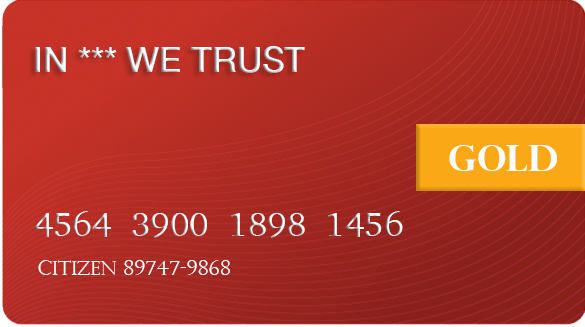
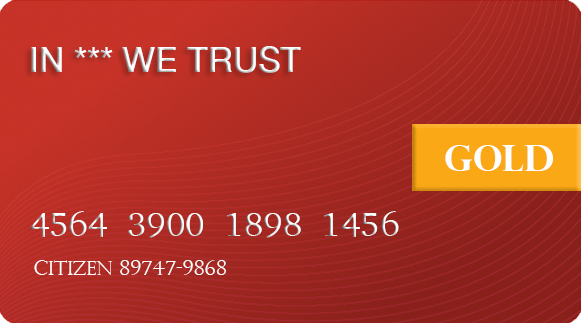
Repositioning divs/animations

diff --git a/styles.css b/styles.css
@@ -16,6 +16,11 @@ body {
 	overflow-x:hidden;
   }
 
+/*#laserpointer {
+	cursor: url("images/laser.png"), auto;
+
+}*/
+
 #container {
 	width: 100vw;
 	height:96vh;
@@ -30,6 +35,7 @@ body {
 }
 
 #english {
+	background-image: url("images/Persiantype.png");
 	font-size: 16pt;
 	position: absolute;
 	margin-left: 50px;
@@ -42,17 +48,7 @@ body {
 
 }
 
-
-.is-hidden {
-	display: none;
-}
-
-.is-visible {
-	display: block;
-}
-
-
-.farsi {
+#farsi {
 	background-image: url("images/nowruz-title2.png");
 	position: absolute;
 	padding-top: 10px;
@@ -63,6 +59,15 @@ body {
 	width: 200px;
 	height:500px;
 
+}
+
+.is-visible {
+	display: block;
+}
+
+
+.is-hidden {
+	display: none;
 }
 
 #haft-seen {
@@ -82,75 +87,80 @@ body {
 	width:150px;
 	margin-top: 10px;
 	padding:35px;
-/*	background-color: white;
-*/
+	background-color: white;
+
 }
+
 
 .flash-hafiz {
-	-webkit-animation-name: flashHafiz;
-	-webkit-animation-duration:4s;
-	-webkit-animation-iteration-count: 2;
-	-webkit-animation-timing-function: ease;
-	-webkit-animation-fill-mode: forwards;
+	background-image: url("images/binarycode.png");
+	background-size:100%;
+	animation-name: flash-hafiz;
+	animation-duration:1s;
+	animation-iteration-count: infinite;
+	animation-timing-function: ease;
+	animation-fill-mode: forwards;
 }
 
-@-webkit-keyframes flash-hafiz {
+@keyframes flash-hafiz {
 	0% {
-    background-image: 
     transform: scale(1);
-  }
-  	60% {
-    background-image: url("images/hafiz.png");
-    transform: scale(2);
-  }
+/*    transform: translate(0px,300px);
+*/  }
   	100% {
-    background-image: url("images/binaryCode.png");
-    transform: scale(3);
-  }
-
-/*	-webkit-background-image: url("images/binaryCode.png");
-	-webkit-transform: scale(2);
-	}
-	to {
-	-webkit-background-image: url("images/hafiz.png");
-	-webkit-transform: scale(3);
-	}*/
+    transform: scale(2.5);
+/*    transform: translate (0px,500px);
+*/  }
 }
 
-/*@keyframes flashHafiz {
-
-}*/
 
 #sehkeh {
-	animation: creditcard 3s;
+	background-size:100%;
+	background-image: url("images/creditcard.png");
+/*	display: none;
+*/	opacity:0;
+	/*or you can do cover for background-size*/
+	width:300px;
+	height:135px;
+	animation: creditcard 5s linear;
+	/*animation-delay: 1s;*/
+	animation-iteration-count: 1;
+/*	animation-direction: alternate;*/	
 }
 
 #sehkeh:hover {
-	animation-delay: 1s;
-
+	opacity:1;
+	
 }
 
-@keyframes creditcard {
+@keyframes creditcard{
  	0% {
-    	background-image: url("images/creditcard.png");
-    	display: block;
-  	}
-  	25% {
-  	  	background-image: url("images/creditcard.png");
-    	transform: rotate(90deg);
-		  transform: scale(7);  
-	}
-	50% {
-    	background-image: url("images/creditcard.png");
-   		transform: rotate(180deg); 
-	}
-	75% {
-    	background-image: url("images/creditcard.png");
-   		transform: rotate(270deg);
-	}
+    	opacity:1;
+    	transform: rotate(0deg);
+  	}	
   	100% {
-    	background-image: url("images/creditcard.png");
     	transform: rotate(360deg);
-		}
+	}
 }
+
+#sabzeh {
+	background-image: url("images/grass.png");
+	opacity: 0;
+	width:1000px;
+	height:1000px;
+	overflow: hidden;
+}
+
+/*#sabzeh:hover{
+	opacity: 1;
+}*/
+
+
+#header{
+	opacity:0;
+}
+#header:hover{
+	opacity:1;
+}
+
 

diff --git a/index.html b/index.html
@@ -6,28 +6,30 @@
 	<link rel="stylesheet" type="text/css" href="styles.css">
 </head>
 <body>
+<!-- 	<div id="laserpointer"></div> -->
 	<div id="container">
 		<header id="header" class="header">
 			<div id="english">
-				<p> Persian New Year<br>2316<br><br>
+			<!-- 	<p> Persian New Year<br>2316<br><br>
 				Nowruz is the traditional Iranian festival of spring which starts at the exact moment of the vernal equinox, commencing the start of the spring. It is considered as the start of the New Year among Iranians. The name comes from Avestan meaning "new day/daylight".
-				<br><br>Haft-Seen is a tabletop arrangement of seven symbolic items traditionally displayed at Nowruz. The haft-seen table includes seven items all starting with the letter Seen in the Persian alphabet.</p>
+				<br><br>Haft-Seen is a tabletop arrangement of seven symbolic items traditionally displayed at Nowruz. The haft-seen table includes seven items all starting with the letter Seen in the Persian alphabet.</p> -->
 			</div>
-			<div class="farsi"></div>
+			<div id="farsi"></div>
 		</header>
 	</div>
 
 <!-- haftseen -->
 		<section id="haft-seen">
-			<article class="haft-seen-item" id="sabzeh"></article>	
-			<article class="haft-seen-item" id="seeb"></article>	
+			<article class="haft-seen-item" id="seeb"></article>
+			<article class="haft-seen-item" id="kehtab"></article>	
+			<article class="haft-seen-item" id="sehkeh"></article>	
 			<article class="haft-seen-item" id="sumac"></article>	
 			<article class="haft-seen-item" id="sombol"></article>	
 			<article class="haft-seen-item" id="seer"></article>	
-			<article class="haft-seen-item" id="sehkeh"></article>	
+			<article class="haft-seen-item" id="sabzeh"></article>	
 			<article class="haft-seen-item" id="vinegar"></article>
-			<article class="haft-seen-item" id="kehtab"></article>	
-			<article class="haft-seen-item" id="ayneh"></article>	
+			<article class="haft-seen-item" id="ayneh"></article>
+
 		</section>
 
 

diff --git a/JS/main.js b/JS/main.js
@@ -3,30 +3,30 @@
 //Cursor artwork created by Ervin Bolat from the Noun Project
 // function setCursorByID(laser,pointer) {
 //  var elem;
-//  if (document.getElementById && (elem=document.getElementById("laser")) ) {
+//  if (document.getElementById && (elem=document.getElementById("laserpointer")) ) {
 //   if (elem.style) elem.style.cursor=cursorStyle;
 //  }
 // }
 
 
-var header = document.getElementById("header");
+// var header = document.getElementById("header");
 
-var actions = function() {
-	header.classList.add('is-hidden');
-}
+// var actions = function() {
+// 	header.classList.add('is-hidden');
+// }
 
-var actions_reverse = function() {
-	header.classList.remove('is-hidden');
-}
+// var actions_reverse = function() {
+// 	header.classList.remove('is-hidden');
+// }
 
 // header.addEventListener("click", actions, false);
-header.addEventListener("mouseover", actions, false);
-header.addEventListener("mouseout", actions_reverse, false);
+// header.addEventListener("mouseover", actions, false);
+// header.addEventListener("mouseout", actions_reverse, false);
 
 
 //Haftseen 1, Sabzeh
-//click, alert --> alert onload
-	
+//hover
+
 //Haftseen 2, Seeb
 //click, image + description
 
@@ -50,6 +50,20 @@ header.addEventListener("mouseout", actions_reverse, false);
 //hover, credit card
 //click, description
 
+// var sehkeh = document.getElementById("sehkeh");
+
+// var actions = function() {
+// 	sehkeh.classList.add('creditcard');
+// 	console.log("creditcard");
+// }
+
+// var actions_reverse = function() {
+// 	sehkeh.classList.remove('creditcard');
+// 	console.log("rotation");
+// }
+
+// sehkeh.addEventListener("click", actions, false)
+// sehkeh.addEventListener("mouseout", actions_reverse, false);
 
 //Haftseen 7, vinegar
 //hover, scramble animation
